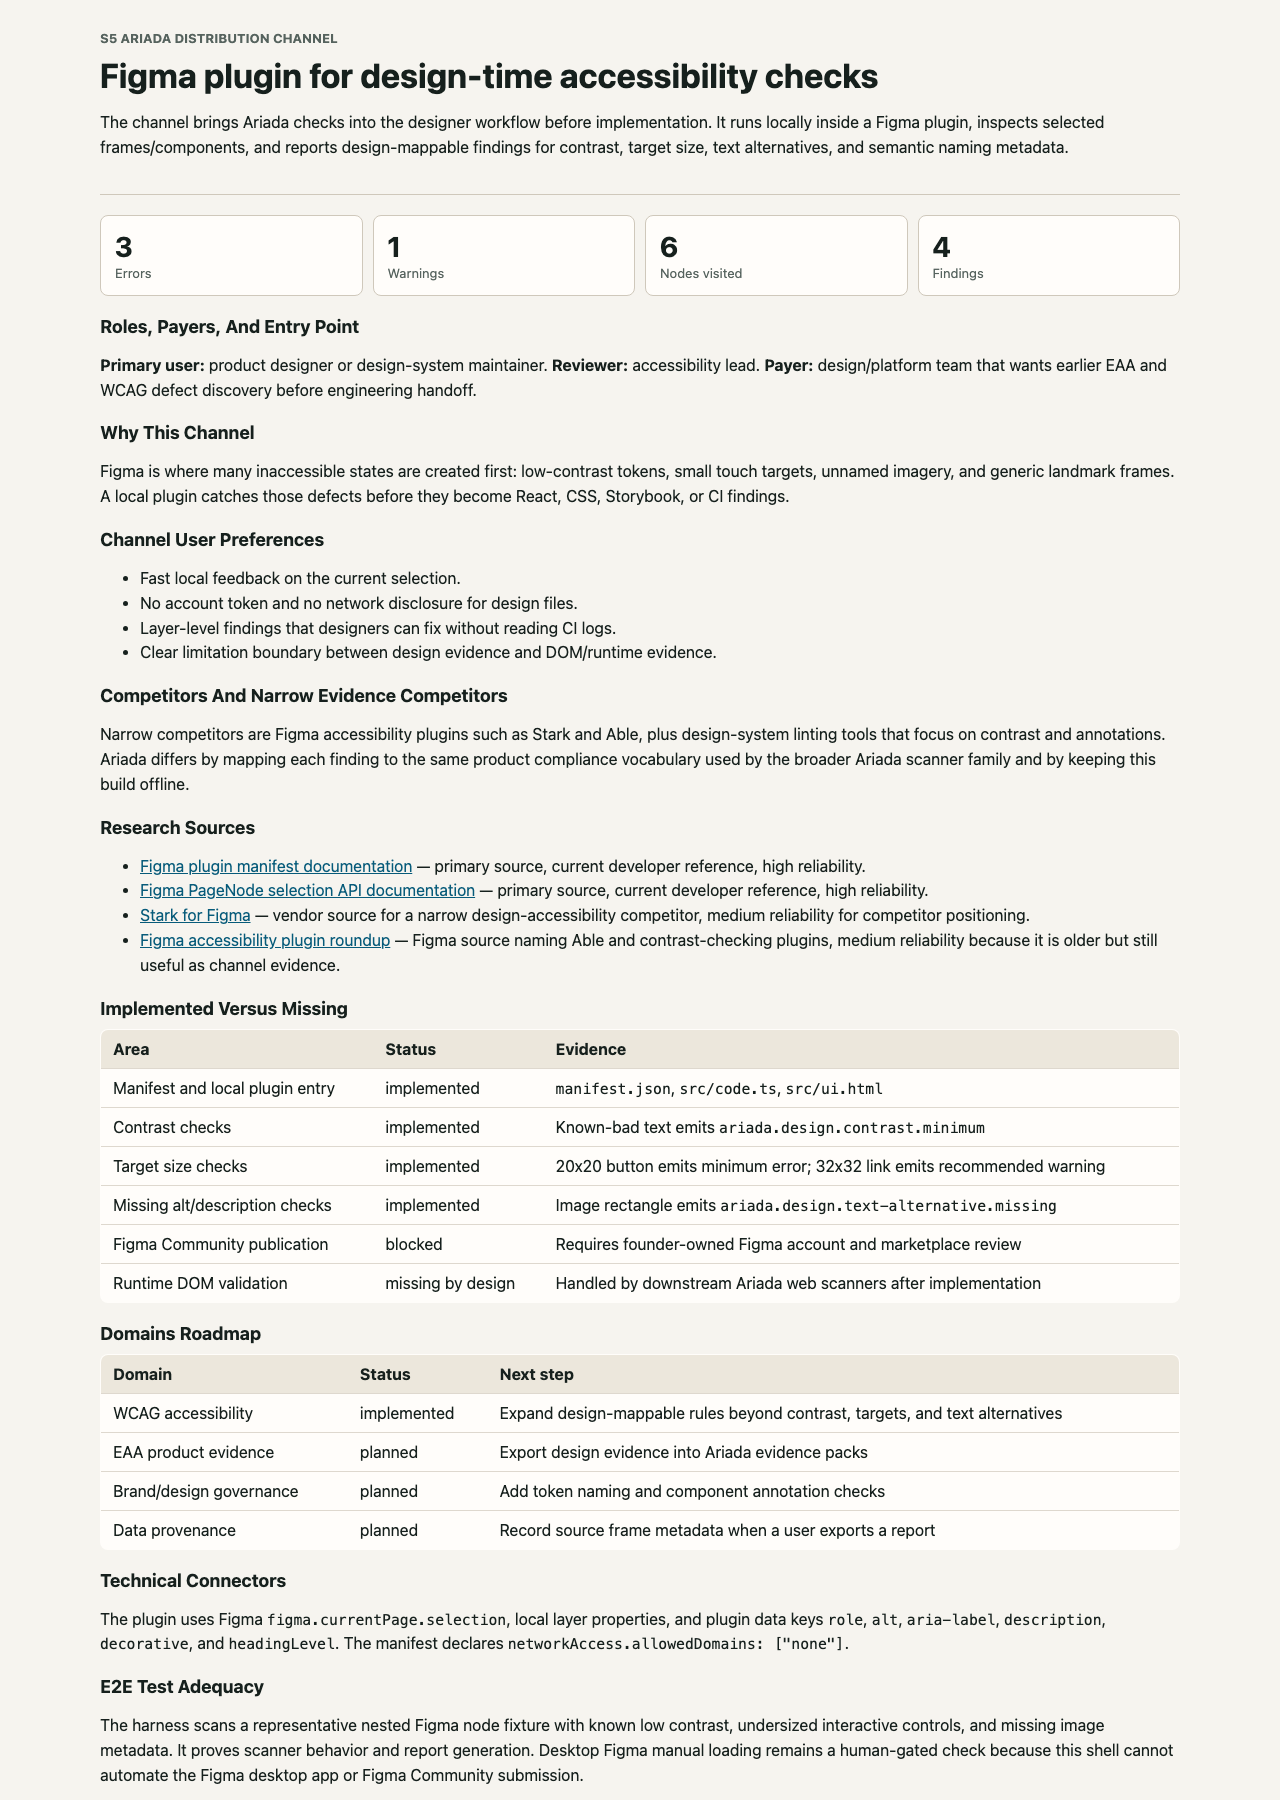
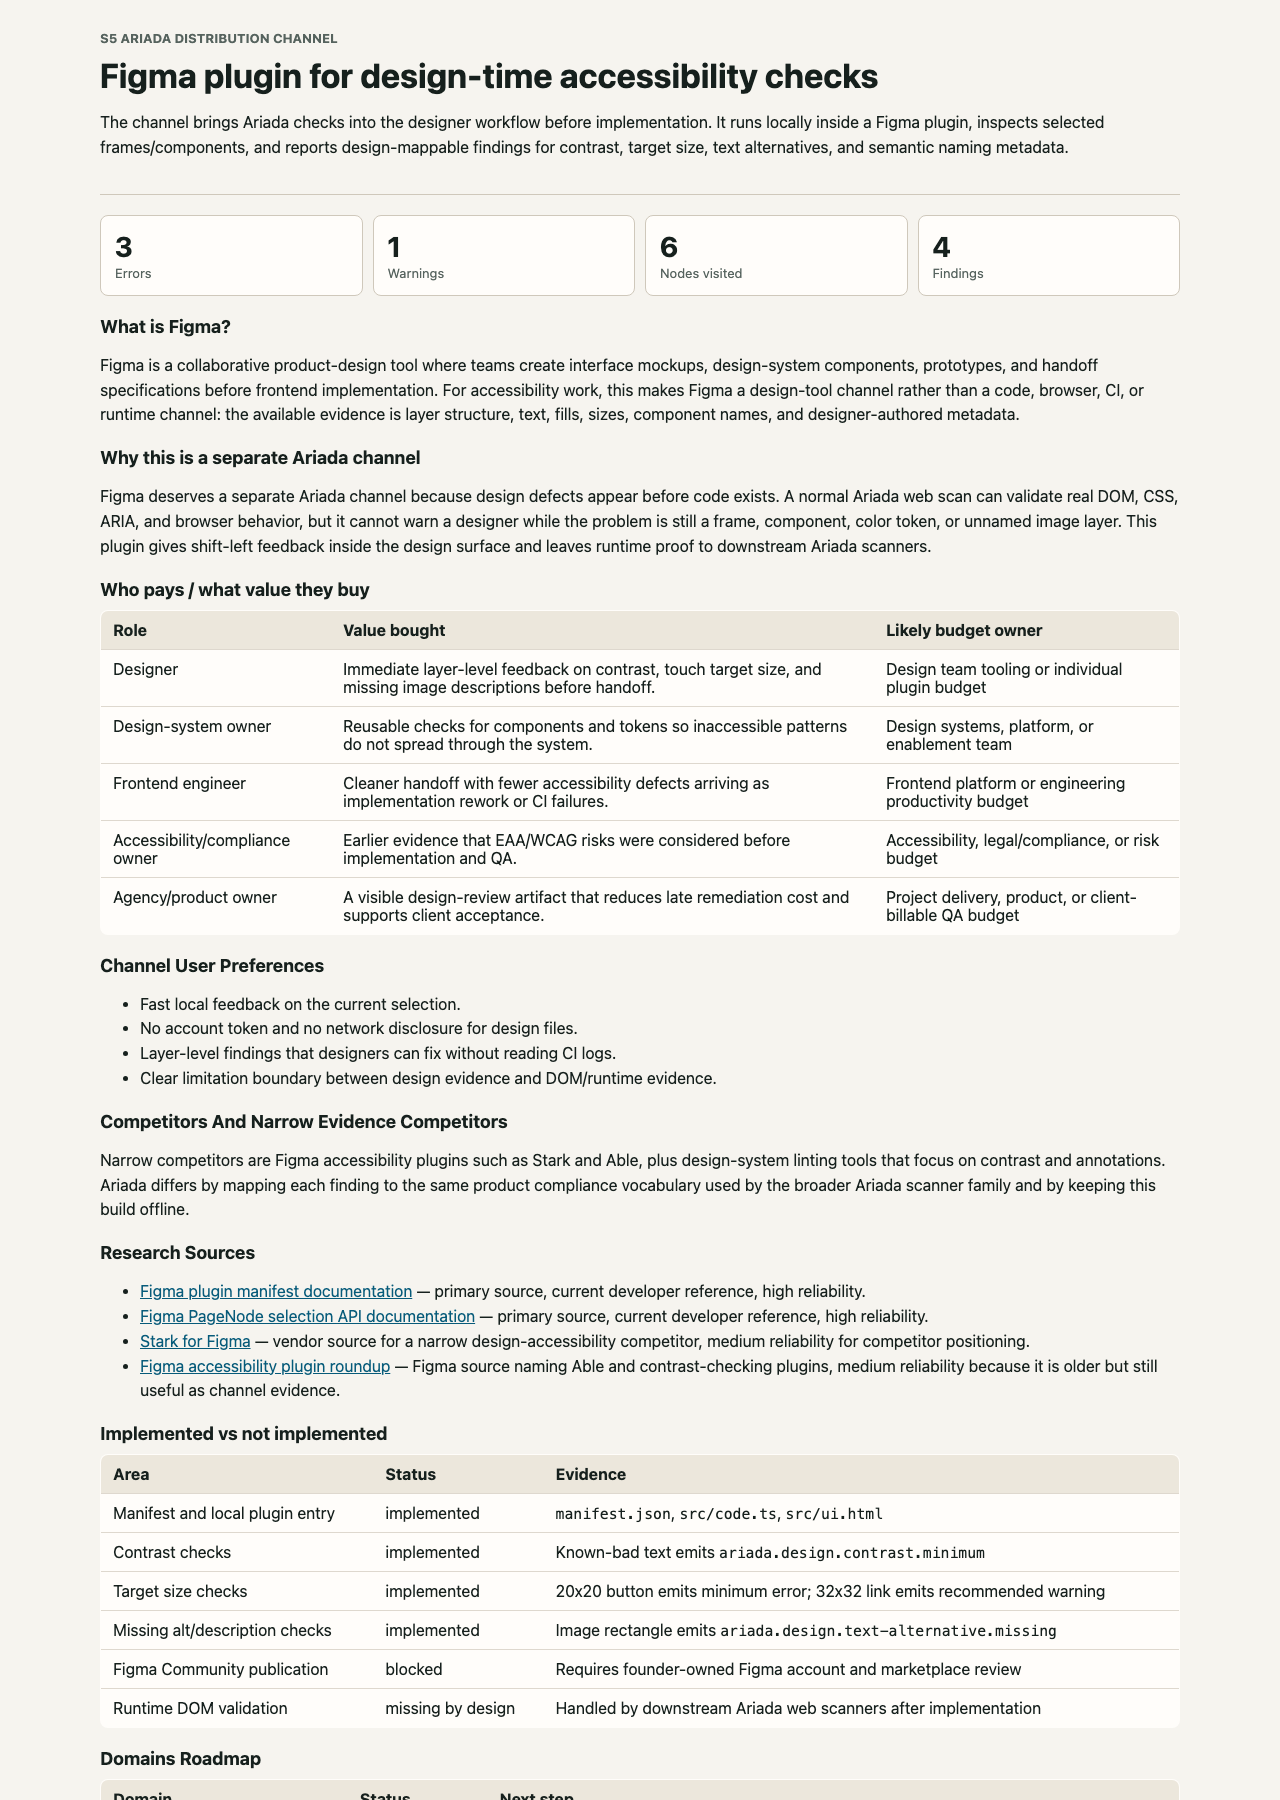
fix figma evidence report sections

Changed region(s): [[0.0625, 0.1556, 0.9375, 1.0], [0.8438, 0.9644, 0.875, 0.9956]]

diff --git a/packages/ariada-figma-plugin/scan-evidence/result.html b/packages/ariada-figma-plugin/scan-evidence/result.html
@@ -45,12 +45,25 @@
     </section>
 
       <section>
-        <h2>Roles, Payers, And Entry Point</h2>
-        <p><strong>Primary user:</strong> product designer or design-system maintainer. <strong>Reviewer:</strong> accessibility lead. <strong>Payer:</strong> design/platform team that wants earlier EAA and WCAG defect discovery before engineering handoff.</p>
+        <h2>What is Figma?</h2>
+        <p>Figma is a collaborative product-design tool where teams create interface mockups, design-system components, prototypes, and handoff specifications before frontend implementation. For accessibility work, this makes Figma a design-tool channel rather than a code, browser, CI, or runtime channel: the available evidence is layer structure, text, fills, sizes, component names, and designer-authored metadata.</p>
       </section>
       <section>
-        <h2>Why This Channel</h2>
-        <p>Figma is where many inaccessible states are created first: low-contrast tokens, small touch targets, unnamed imagery, and generic landmark frames. A local plugin catches those defects before they become React, CSS, Storybook, or CI findings.</p>
+        <h2>Why this is a separate Ariada channel</h2>
+        <p>Figma deserves a separate Ariada channel because design defects appear before code exists. A normal Ariada web scan can validate real DOM, CSS, ARIA, and browser behavior, but it cannot warn a designer while the problem is still a frame, component, color token, or unnamed image layer. This plugin gives shift-left feedback inside the design surface and leaves runtime proof to downstream Ariada scanners.</p>
+      </section>
+      <section>
+        <h2>Who pays / what value they buy</h2>
+        <table>
+          <thead><tr><th>Role</th><th>Value bought</th><th>Likely budget owner</th></tr></thead>
+          <tbody>
+            <tr><td>Designer</td><td>Immediate layer-level feedback on contrast, touch target size, and missing image descriptions before handoff.</td><td>Design team tooling or individual plugin budget</td></tr>
+            <tr><td>Design-system owner</td><td>Reusable checks for components and tokens so inaccessible patterns do not spread through the system.</td><td>Design systems, platform, or enablement team</td></tr>
+            <tr><td>Frontend engineer</td><td>Cleaner handoff with fewer accessibility defects arriving as implementation rework or CI failures.</td><td>Frontend platform or engineering productivity budget</td></tr>
+            <tr><td>Accessibility/compliance owner</td><td>Earlier evidence that EAA/WCAG risks were considered before implementation and QA.</td><td>Accessibility, legal/compliance, or risk budget</td></tr>
+            <tr><td>Agency/product owner</td><td>A visible design-review artifact that reduces late remediation cost and supports client acceptance.</td><td>Project delivery, product, or client-billable QA budget</td></tr>
+          </tbody>
+        </table>
       </section>
       <section>
         <h2>Channel User Preferences</h2>
@@ -75,7 +88,7 @@
         </ul>
       </section>
       <section>
-        <h2>Implemented Versus Missing</h2>
+        <h2>Implemented vs not implemented</h2>
         <table>
           <thead><tr><th>Area</th><th>Status</th><th>Evidence</th></tr></thead>
           <tbody>
